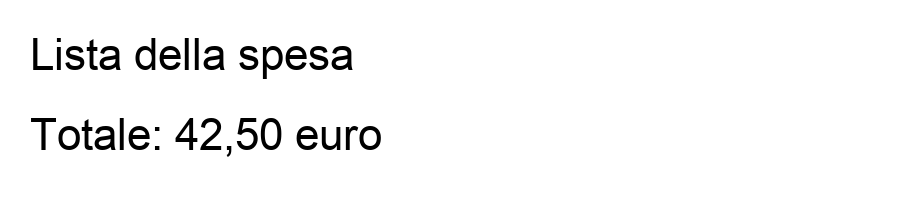
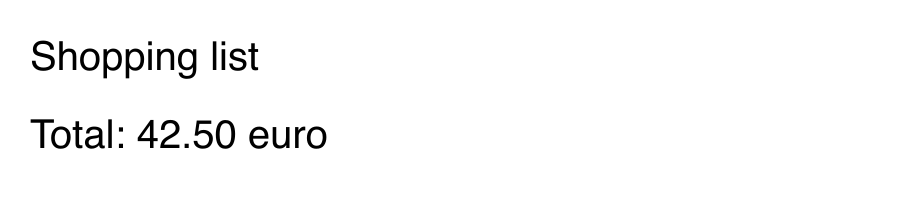
Test data in English
Tests, examples, browser mock data and the OCR image in English. Other
languages remain only in the cases that test translated keywords and the
decimal comma, kept apart and labelled as such.

Changed region(s): [[0.0311, 0.51, 0.4356, 0.75], [0.0311, 0.18, 0.4044, 0.39]]

diff --git a/app/tests/calc.test.ts b/app/tests/calc.test.ts
@@ -1,34 +1,46 @@
 import { countIn, detectMode, evaluate, formatResult, numbersIn } from "../src/lib/calc.ts";
 import assert from "node:assert/strict";
 
-const show = (text: string, auto = false) =>
-  evaluate(text, auto).map((r) => (r && r.show ? formatResult(r, "it-IT") : null));
+const show = (text: string, auto = false, locale = "en-US") =>
+  evaluate(text, auto).map((r) => (r && r.show ? formatResult(r, locale) : null));
 
 // Plain notes: a result shows only on lines ending with "=".
 const cases: [string, (string | null)[]][] = [
   ["2 + 3 * 4", [null]],
   ["2 + 3 * 4 =", ["14"]],
   ["2+2=", ["4"]],
-  ["(2 + 3) * 4 =\n2^10=", ["20", "1024"]],
-  ["Spesa\nlatte 1,50 €\npane 2 €\ntotale =", [null, null, null, "3,50 €"]],
-  ["Spesa\nlatte 1,50 €\npane 2 €\ntotale", [null, null, null, null]],
-  ["iva = 22%\n100 € + iva =", [null, "122,00 €"]],
-  ["20% di 50 =", ["10"]],
-  ["caffè: 1,20 €\npranzo: 12 €\nsomma =", [null, null, "13,20 €"]],
+  ["(2 + 3) * 4 =\n2^10=", ["20", "1,024"]],
+  ["Groceries\nmilk 1.50 €\nbread 2 €\ntotal =", [null, null, null, "3.50 €"]],
+  ["Groceries\nmilk 1.50 €\nbread 2 €\ntotal", [null, null, null, null]],
+  ["vat = 22%\n100 € + vat =", [null, "122.00 €"]],
+  ["20% of 50 =", ["10"]],
+  ["coffee: 1.20 €\nlunch: 12 €\nsum =", [null, null, "13.20 €"]],
   ["x = 10\nx * 3 =\nans + 1 =", [null, "30", "31"]],
   ["sqrt(16) + 1 =", ["5"]],
-  ["Ho 3 gatti e 2 cani", [null]],
-  ["- [ ] comprare latte\n- [x] fatto", [null, null]],
+  ["I have 3 cats and 2 dogs", [null]],
+  ["- [ ] buy milk\n- [x] done", [null, null]],
   ["- [ ] 2 * 3 =", ["6"]],
-  ["# Titolo 2024", [null]],
-  ["prezzo = 80\nsconto = 15%\nprezzo - sconto =", [null, null, "68"]],
-  ["10 / 4 =", ["2,5"]],
+  ["# Title 2024", [null]],
+  ["price = 80\ndiscount = 15%\nprice - discount =", [null, null, "68"]],
+  ["10 / 4 =", ["2.5"]],
   ["3 x 4 =", ["12"]],
-  ["1,5k + 500 =", ["2000"]],
+  ["1.5k + 500 =", ["2,000"]],
   ["10\n20\n\n5\ntotal =", [null, null, null, null, "5"]],
-  ["media\n4\n6\nmedia =", [null, null, null, "5"]],
-  ["10 €\n5 €\ntotale\ntotale * 2 =", [null, null, null, "30,00 €"]],
+  ["avg\n4\n6\navg =", [null, null, null, "5"]],
+  ["10 €\n5 €\ntotal\ntotal * 2 =", [null, null, null, "30.00 €"]],
   ["// 2 + 2 =\n3 + 3 =", [null, "6"]],
+];
+
+// Other UI languages: translated keywords ("totale", "somma", "media", "di", "summe",
+// "von") and decimal commas, with results formatted for Italian.
+const localized: [string, (string | null)[]][] = [
+  ["milk 1,50 €\nbread 2 €\ntotale =", [null, null, "3,50 €"]],
+  ["vat = 22%\n100 € + vat =", [null, "122,00 €"]],
+  ["20% di 50 =", ["10"]],
+  ["coffee: 1,20 €\nlunch: 12 €\nsomma =", [null, null, "13,20 €"]],
+  ["media\n4\n6\nmedia =", [null, null, null, "5"]],
+  ["10 / 4 =", ["2,5"]],
+  ["1,5k + 500 =", ["2000"]],
   ["10 €\n5 €\nsumme =", [null, null, "15,00 €"]],
   ["30% von 200 =", ["60"]],
 ];
@@ -37,21 +49,22 @@ const cases: [string, (string | null)[]][] = [
 const auto: [string, (string | null)[]][] = [
   ["2 + 3 * 4", ["14"]],
   ["x = 10\nx * 3", ["10", "30"]],
-  ["caffè: 1,20 €\npranzo: 12 €\nsomma", ["1,20 €", "12,00 €", "13,20 €"]],
-  ["Ho 3 gatti", [null]],
+  ["coffee: 1.20 €\nlunch: 12 €\nsum", ["1.20 €", "12.00 €", "13.20 €"]],
+  ["I have 3 cats", [null]],
 ];
-for (const [input, expected] of auto) {
-  assert.deepEqual(show(input, true), expected, `auto: ${input}`);
-}
 
-for (const [input, expected] of cases) {
-  assert.deepEqual(show(input), expected, input);
-}
-assert.deepEqual(detectMode("list: Spesa"), { mode: "list", title: "Spesa" });
+for (const [input, expected] of cases) assert.deepEqual(show(input), expected, input);
+for (const [input, expected] of localized) assert.deepEqual(show(input, false, "it-IT"), expected, `it: ${input}`);
+for (const [input, expected] of auto) assert.deepEqual(show(input, true), expected, `auto: ${input}`);
+assert.deepEqual(show("coffee: 1,20 €\nlunch: 12 €\nsomma", true, "it-IT"), ["1,20 €", "12,00 €", "13,20 €"]);
+
+assert.deepEqual(detectMode("list: Groceries"), { mode: "list", title: "Groceries" });
+assert.equal(detectMode("List of groceries").mode, "plain");
+// Translated keywords.
 assert.deepEqual(detectMode("Lista"), { mode: "list", title: "" });
 assert.deepEqual(detectMode("summe"), { mode: "sum", title: "" });
-assert.equal(detectMode("Lista della spesa").mode, "plain");
-assert.deepEqual(numbersIn("sum\n- [ ] latte 1,50\n2. pane 2\n// 100\nuova x6"), [1.5, 2, 6]);
-assert.deepEqual(countIn("count\nuno due\n\ntre\n// no"), { items: 2, lines: 3, words: 3, chars: 10 });
+assert.equal(detectMode("Lista groceries").mode, "plain");
+assert.deepEqual(numbersIn("sum\n- [ ] milk 1,50\n2. bread 2\n// 100\neggs x6"), [1.5, 2, 6]);
+assert.deepEqual(countIn("count\none two\n\nsix\n// no"), { items: 2, lines: 3, words: 3, chars: 10 });
 
-console.log(`calc: ${cases.length + auto.length} casi + modalità ok`);
+console.log(`calc: ${cases.length + localized.length + auto.length + 1} cases + modes ok`);

diff --git a/app/src/lib/mock.ts b/app/src/lib/mock.ts
@@ -6,17 +6,17 @@ import type { Folder, Note, NoteSummary, Status, SyncReport, TrashItem } from ".
 
 const folders: Folder[] = [
   { id: "r".repeat(32), parent_id: "", title: "Omanote", icon: "", note_count: 0 },
-  { id: "a".repeat(32), parent_id: "r".repeat(32), title: "Spesa", icon: "🛒", note_count: 1 },
-  { id: "b".repeat(32), parent_id: "r".repeat(32), title: "Lavoro", icon: "💼", note_count: 1 },
-  { id: "c".repeat(32), parent_id: "b".repeat(32), title: "Progetti", icon: "", note_count: 1 },
+  { id: "a".repeat(32), parent_id: "r".repeat(32), title: "Groceries", icon: "🛒", note_count: 1 },
+  { id: "b".repeat(32), parent_id: "r".repeat(32), title: "Work", icon: "💼", note_count: 1 },
+  { id: "c".repeat(32), parent_id: "b".repeat(32), title: "Projects", icon: "", note_count: 1 },
 ];
 
 const notes: (Note & { title: string })[] = [
   {
     id: "1".repeat(32),
     parent_id: "a".repeat(32),
-    title: "Spesa di sabato",
-    text: "Spesa di sabato\n- [ ] latte 1,20 €\n- [x] pane 2,50 €\n- [ ] caffè 4 €\ntotale\n\nsconto = 10%\ntotale - sconto",
+    title: "Saturday shopping",
+    text: "Saturday shopping\n- [ ] milk 1.20 €\n- [x] bread 2.50 €\n- [ ] coffee 4 €\ntotal\n\ndiscount = 10%\ntotal - discount =",
     updated_time: Date.now() - 600_000,
     created_time: Date.now() - 86_400_000,
     encrypted: false,
@@ -24,8 +24,8 @@ const notes: (Note & { title: string })[] = [
   {
     id: "2".repeat(32),
     parent_id: "b".repeat(32),
-    title: "Riunione lunedì",
-    text: "Riunione lunedì\n# Punti\n- budget trimestre: 12500 €\n- team: 7 persone\n12500 / 7\n\n- [ ] preparare slide\n- [ ] mandare invito",
+    title: "Monday meeting",
+    text: "Monday meeting\n# Agenda\n- quarterly budget: 12500 €\n- team: 7 people\n12500 / 7 =\n\n- [ ] prepare slides\n- [ ] send the invite",
     updated_time: Date.now() - 3_600_000,
     created_time: Date.now() - 172_800_000,
     encrypted: false,
@@ -37,7 +37,7 @@ notes.push(
     id: "3".repeat(32),
     parent_id: "c".repeat(32),
     title: "Omanote",
-    text: "Omanote\n- [x] albero delle cartelle\n- [ ] barra inferiore",
+    text: "Omanote\n- [x] folder tree\n- [ ] bottom bar",
     updated_time: Date.now() - 7_200_000,
     created_time: Date.now() - 7_200_000,
     encrypted: false,
@@ -45,8 +45,8 @@ notes.push(
   {
     id: "4".repeat(32),
     parent_id: "r".repeat(32),
-    title: "Idea veloce",
-    text: "Idea veloce\n2+2",
+    title: "Quick idea",
+    text: "Quick idea\n2+2=",
     updated_time: Date.now() - 60_000,
     created_time: Date.now() - 60_000,
     encrypted: false,
@@ -221,7 +221,7 @@ export async function mockInvoke(cmd: string, args: Record<string, unknown> = {}
       return /^\s*timer\b/i.test(a.line ?? "");
     case "ocr_image":
     case "ocr_file":
-      return "Testo riconosciuto (demo)";
+      return "Recognized text (demo)";
     case "toggle_pin":
       return true;
     case "add_image": {

diff --git a/app/src/lib/calc.ts b/app/src/lib/calc.ts
@@ -2,12 +2,12 @@
 // as an expression; lines that don't parse (plain text) are ignored.
 //
 //   2 + 3 * 4            → 14
-//   iva = 22%            → 0,22        (variables)
-//   100 € + iva          → 122 €       (x + y% adds a percentage)
-//   20% di 50            → 10
-//   caffè: 1,50 €        → 1,50 €      ("label: expr")
-//   totale               → sum of the block above (also: sum, somma, total)
-//   media                → average of the block above (also: avg, average)
+//   vat = 22%            → 0.22        (variables)
+//   100 € + vat          → 122 €       (x + y% adds a percentage)
+//   20% of 50            → 10
+//   coffee: 1.50 €       → 1.50 €      ("label: expr")
+//   total                → sum of the block above (also: sum, and the UI languages' words)
+//   avg                  → average of the block above (also: average, and translations)
 //   sqrt(16) + ans       → uses the previous result
 
 export interface LineResult {

diff --git a/crates/omanote-core/src/store.rs b/crates/omanote-core/src/store.rs
@@ -737,20 +737,20 @@ mod tests {
     fn note_lifecycle() {
         let s = Store::open_in_memory().unwrap();
         let f = s.create_folder("Omanote", "").unwrap();
-        let sub = s.create_folder("Spesa", &f.id).unwrap();
-        let n = s.create_note(&sub.id, "Lista\n- latte\n- pane").unwrap();
-        assert_eq!(n.text, "Lista\n- latte\n- pane");
+        let sub = s.create_folder("Groceries", &f.id).unwrap();
+        let n = s.create_note(&sub.id, "Shopping\n- milk\n- bread").unwrap();
+        assert_eq!(n.text, "Shopping\n- milk\n- bread");
         let (raw, ..) = s.raw(&n.id).unwrap().unwrap();
-        assert_eq!(raw.title.as_deref(), Some("Lista"));
-        assert_eq!(raw.body.as_deref(), Some("- latte\n- pane"));
+        assert_eq!(raw.title.as_deref(), Some("Shopping"));
+        assert_eq!(raw.body.as_deref(), Some("- milk\n- bread"));
 
         let tree = s.folder_subtree(&f.id).unwrap();
         assert_eq!(tree.len(), 2);
         assert_eq!(s.notes_in(&tree).unwrap().len(), 1);
         assert_eq!(s.dirty_items().unwrap().len(), 3);
 
-        s.update_note_text(&n.id, "Lista\n- latte").unwrap();
-        assert_eq!(s.search_notes(&tree, "LATTE").unwrap().len(), 1);
+        s.update_note_text(&n.id, "Shopping\n- milk").unwrap();
+        assert_eq!(s.search_notes(&tree, "MILK").unwrap().len(), 1);
         assert!(s.update_folder(&f.id, None, Some(&sub.id)).is_err());
 
         s.trash(&n.id).unwrap();
@@ -761,8 +761,8 @@ mod tests {
     fn trash_restore_purge() {
         let s = Store::open_in_memory().unwrap();
         let home = s.create_folder("Omanote", "").unwrap();
-        let work = s.create_folder("Lavoro", "").unwrap();
-        let sub = s.create_folder("Progetti", &work.id).unwrap();
+        let work = s.create_folder("Work", "").unwrap();
+        let sub = s.create_folder("Projects", &work.id).unwrap();
         let a = s.create_note(&sub.id, "A").unwrap();
         let b = s.create_note(&home.id, "B").unwrap();
         for id in [&a.id, &sub.id, &work.id, &b.id] {
@@ -800,12 +800,12 @@ mod tests {
     fn restored_folder_stays_in_the_visible_tree() {
         let s = Store::open_in_memory().unwrap();
         let home = s.create_folder("Omanote", "").unwrap();
-        let outer = s.create_folder("Progetti", &home.id).unwrap();
-        let inner = s.create_folder("Vecchi", &outer.id).unwrap();
+        let outer = s.create_folder("Projects", &home.id).unwrap();
+        let inner = s.create_folder("Old", &outer.id).unwrap();
         s.trash(&inner.id).unwrap();
         s.trash(&outer.id).unwrap();
         s.purge(&outer.id).unwrap_or(()); // outer and inner gone for good…
-        let lost = s.create_folder("Orfana", &outer.id).unwrap(); // …a folder whose parent is gone
+        let lost = s.create_folder("Orphan", &outer.id).unwrap(); // …a folder whose parent is gone
         s.trash(&lost.id).unwrap();
         s.restore(&lost.id, &home.id, &home.id).unwrap();
         assert_eq!(s.raw(&lost.id).unwrap().unwrap().0.get("parent_id"), home.id);
@@ -835,7 +835,7 @@ mod tests {
 
     #[test]
     fn text_split_round_trip() {
-        let cases = [("", ""), ("solo titolo", "solo titolo"), ("t\nb", "t\nb"), ("t\n\nb\n", "t\n\nb\n"), ("t\n", "t")];
+        let cases = [("", ""), ("title only", "title only"), ("t\nb", "t\nb"), ("t\n\nb\n", "t\n\nb\n"), ("t\n", "t")];
         for (input, expected) in cases {
             let (a, b) = split_text(input);
             assert_eq!(join_text(&a, &b), expected);

diff --git a/crates/omanote-core/examples/sync_e2e.rs b/crates/omanote-core/examples/sync_e2e.rs
@@ -1,7 +1,7 @@
 //! End-to-end check against a real Joplin Server.
 //!
 //! OMANOTE_URL=… OMANOTE_EMAIL=… OMANOTE_PASSWORD=… OMANOTE_MASTER=… OMANOTE_DB=…
-//! cargo run --example sync_e2e -- [write] [edit <titolo> <testo>] [list]
+//! cargo run --example sync_e2e -- [write] [edit <title> <text>] [list]
 //!
 //! "edit" changes a note locally WITHOUT syncing, which is how the conflict
 //! path is exercised: edit the same note in Joplin, sync Joplin, then sync here.
@@ -44,9 +44,9 @@ async fn main() -> omanote_core::Result<()> {
             .notes_in(&all)?
             .into_iter()
             .find(|n| n.title == title)
-            .unwrap_or_else(|| panic!("nota {title:?} non trovata"));
+            .unwrap_or_else(|| panic!("note {title:?} not found"));
         db.update_note_text(&n.id, &text)?;
-        println!("modificata localmente (non sincronizzata): {title}");
+        println!("edited locally (not synced): {title}");
         return Ok(());
     }
 
@@ -57,7 +57,7 @@ async fn main() -> omanote_core::Result<()> {
     {
         let db = store.lock().unwrap();
         for f in db.folders()? {
-            println!("📁 {} ({} note)", f.title, f.note_count);
+            println!("📁 {} ({} notes)", f.title, f.note_count);
             for n in db.notes_in(&[f.id.clone()])? {
                 let full = db.note(&n.id)?.unwrap();
                 println!("   📝 {:?}", full.text);
@@ -66,9 +66,9 @@ async fn main() -> omanote_core::Result<()> {
         if write {
             let folders = db.folders()?;
             let test = folders.iter().find(|f| f.title == "Test").expect("Test folder");
-            let spesa = db.notes_in(&[test.id.clone()])?.into_iter().find(|n| n.title == "Spesa").unwrap();
-            db.update_note_text(&spesa.id, "Spesa\n- latte\n- pane 😀\n- uova (da Omanote)")?;
-            db.create_note(&test.id, "Nota da Omanote ✓\nscritta in Rust, cifrata E2EE")?;
+            let groceries = db.notes_in(&[test.id.clone()])?.into_iter().find(|n| n.title == "Groceries").unwrap();
+            db.update_note_text(&groceries.id, "Groceries\n- milk\n- bread 😀\n- eggs (from Omanote)")?;
+            db.create_note(&test.id, "Note from Omanote ✓\nwritten in Rust, E2EE-encrypted")?;
             db.create_folder("Omanote Inbox", "")?;
         }
     }

diff --git a/crates/omanote-core/examples/reupload_e2e.rs b/crates/omanote-core/examples/reupload_e2e.rs
@@ -40,10 +40,10 @@ async fn main() -> omanote_core::Result<()> {
         "seed" => {
             {
                 let db = store.lock().unwrap();
-                let f = db.create_folder("Lavoro", "")?;
+                let f = db.create_folder("Work", "")?;
                 let img = std::fs::read(&args[2]).expect("image");
-                let id = db.add_resource(&img, "image/png", "foto.png")?;
-                db.create_note(&f.id, &format!("Nota con foto\n![foto.png](:/{id})"))?;
+                let id = db.add_resource(&img, "image/png", "photo.png")?;
+                db.create_note(&f.id, &format!("Note with a photo\n![photo.png](:/{id})"))?;
                 println!("sha256 {}", hex(&img));
             }
             println!("{:?}", sync.sync().await?);
@@ -53,7 +53,7 @@ async fn main() -> omanote_core::Result<()> {
             {
                 let db = store.lock().unwrap();
                 let all: Vec<String> = db.folders()?.into_iter().map(|f| f.id).collect();
-                let note = db.notes_in(&all)?.into_iter().find(|n| n.title == "Nota con foto").expect("a note");
+                let note = db.notes_in(&all)?.into_iter().find(|n| n.title == "Note with a photo").expect("a note");
                 let text = db.note(&note.id)?.unwrap().text;
                 db.update_note_text(&note.id, &format!("{text}\n{}", args[2]))?;
             }

diff --git a/crates/omanote-core/examples/local_then_sync.rs b/crates/omanote-core/examples/local_then_sync.rs
@@ -23,11 +23,11 @@ async fn main() -> omanote_core::Result<()> {
     // 1. Local mode: no server at all.
     let (root, note) = {
         let db = store.lock().unwrap();
-        let root = db.create_folder("Locale Omanote", "")?;
-        let sub = db.create_folder("Idee", &root.id)?;
-        db.create_note(&root.id, "Nota offline\nscritta senza server\nx = 21\nx * 2")?;
-        let note = db.create_note(&sub.id, "list: Da fare\n- [ ] collegare Joplin")?;
-        println!("locale: {} elementi da caricare", db.dirty_items()?.len());
+        let root = db.create_folder("Omanote Local", "")?;
+        let sub = db.create_folder("Ideas", &root.id)?;
+        db.create_note(&root.id, "Offline note\nwritten without a server\nx = 21\nx * 2")?;
+        let note = db.create_note(&sub.id, "list: To do\n- [ ] connect Joplin")?;
+        println!("local: {} items to upload", db.dirty_items()?.len());
         (root, note)
     };
 
@@ -50,6 +50,6 @@ async fn main() -> omanote_core::Result<()> {
     assert_eq!(db.dirty_items()?.len(), 0, "everything uploaded");
     assert!(db.note(&note.id)?.is_some(), "local note kept");
     assert!(report.uploaded >= 4, "folders and notes uploaded");
-    println!("ok: root {} e note locali caricate sul server", root.id);
+    println!("ok: root {} and local notes uploaded to the server", root.id);
     Ok(())
 }

diff --git a/crates/omanote-core/examples/resources_e2e.rs b/crates/omanote-core/examples/resources_e2e.rs
@@ -38,8 +38,8 @@ async fn main() -> omanote_core::Result<()> {
             {
                 let db = store.lock().unwrap();
                 let folder = db.folders()?.into_iter().find(|f| f.title == "Test").expect("Test folder").id;
-                let id = db.add_resource(&bytes, "image/png", "schermata.png")?;
-                db.create_note(&folder, &format!("Immagine da Omanote\n![schermata.png](:/{id})"))?;
+                let id = db.add_resource(&bytes, "image/png", "screenshot.png")?;
+                db.create_note(&folder, &format!("Image from Omanote\n![screenshot.png](:/{id})"))?;
                 println!("resource {id} ({} bytes)", bytes.len());
             }
             println!("sync: {:?}", sync.sync().await?);

diff --git a/crates/omanote-core/src/e2ee.rs b/crates/omanote-core/src/e2ee.rs
@@ -457,7 +457,7 @@ mod tests {
         let r = ring();
         // Put an emoji (surrogate pair) exactly across the chunk boundary.
         let mut s = "a".repeat(STRING_V1_CHUNK - 1);
-        s.push_str("😀 ciao àèì");
+        s.push_str("😀 hello àèì");
         let enc = r.encrypt_string(&s).unwrap();
         assert!(enc.starts_with("JED01000022"));
         assert_eq!(r.decrypt_string(&enc).unwrap(), s);

diff --git a/app/src-tauri/src/ocr.rs b/app/src-tauri/src/ocr.rs
@@ -153,7 +153,7 @@ mod tests {
         let t = std::time::Instant::now();
         super::recognize(png).unwrap();
         eprintln!("second OCR: {:?}", t.elapsed());
-        assert!(text.contains("Lista della spesa"), "{text}");
-        assert!(text.contains("42,50"), "{text}");
+        assert!(text.contains("Shopping list"), "{text}");
+        assert!(text.contains("42.50"), "{text}");
     }
 }

diff --git a/AGENTS.md b/AGENTS.md
@@ -207,7 +207,7 @@ generic `mcpServers` JSON, built from the real binary path (`cli_path` command).
 claude mcp add omanote -- omanote-cli mcp     # MCP tools: list/search/read/create/update/append/move/trash/sync
 codex mcp add omanote -- omanote-cli mcp
 gemini mcp add -s user omanote omanote-cli mcp
-omanote-cli new --folder Lavoro "Riunione\n- [ ] slide"
+omanote-cli new --folder Work "Meeting\n- [ ] slides"
 omanote-cli search budget --json
 ```
 
